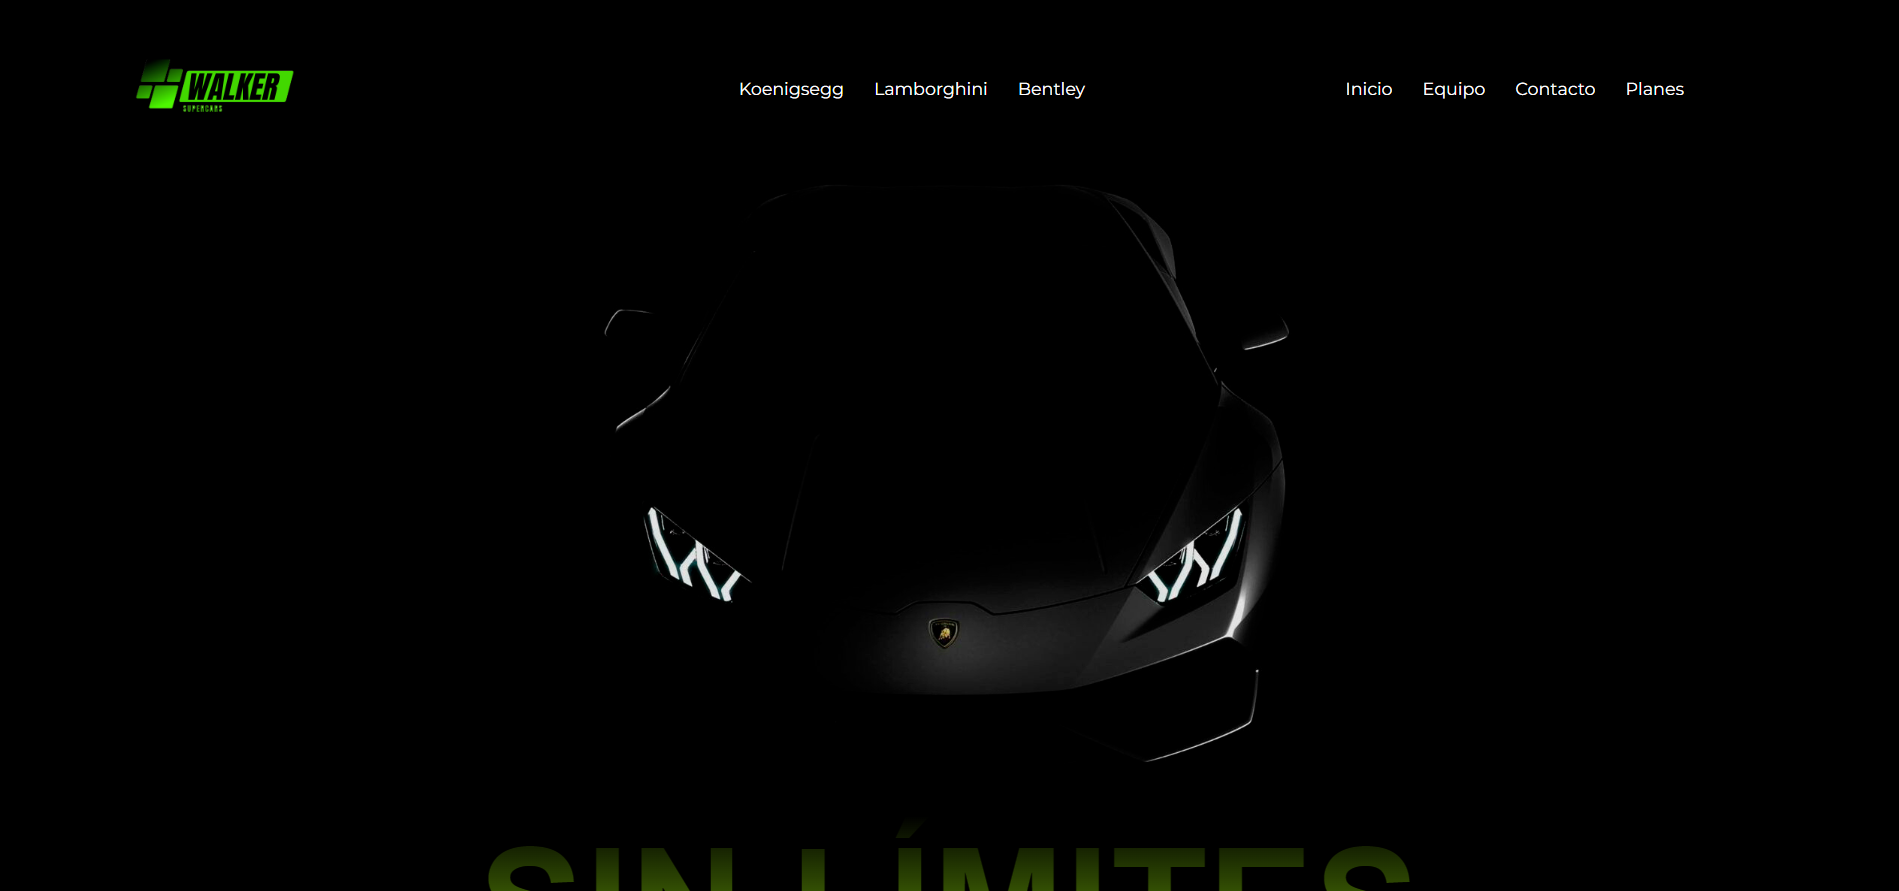
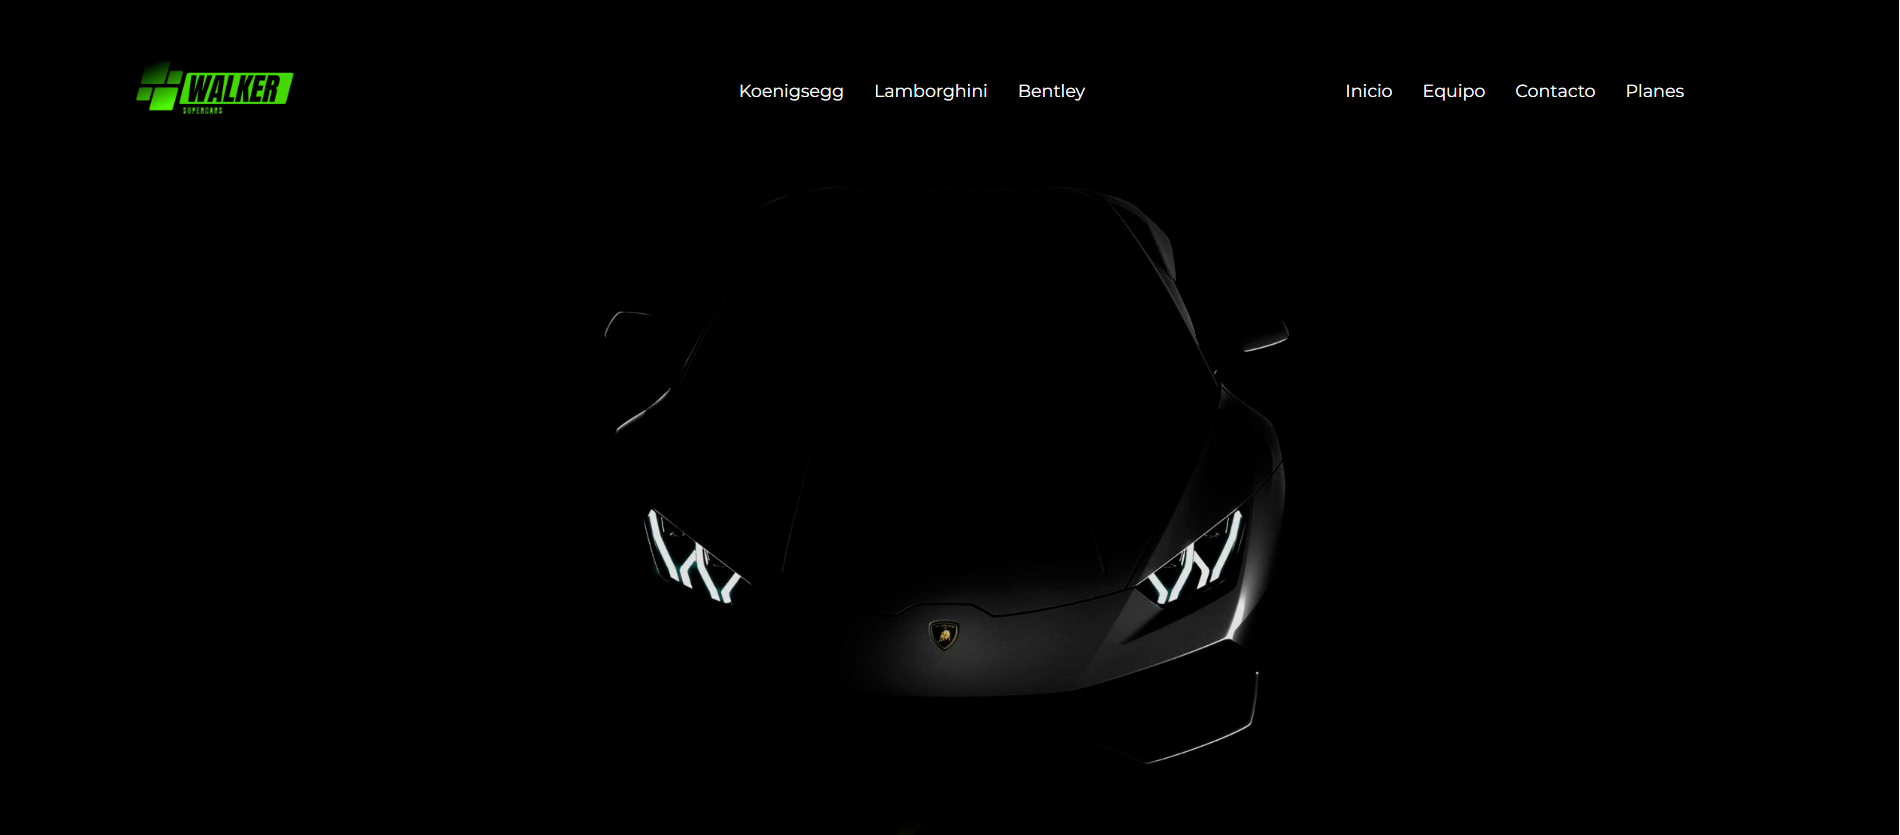
Estructura de página de Sitios Web

diff --git a/sitiosweb.html b/sitiosweb.html
@@ -13,13 +13,15 @@
     <link rel="stylesheet" href="styles.css">
     <script src="https://kit.fontawesome.com/96a8e79162.js" crossorigin="anonymous"></script>
     <script src="https://code.jquery.com/jquery-3.6.0.min.js"></script>
+    <script src="//ajax.googleapis.com/ajax/libs/jquery/1.10.2/jquery.min.js"></script>
     <link rel="icon" type="image/x-icon" href="./img/favIanValentino1.png">
+    <script src="myscript.js"></script>
     <title>Sitios Web | Ian Valentino</title>
 </head>
 
 <body>
-    <header>
-        <div class="header-container fixed navbar-fixed-top">
+    <header class="nav-down">
+        <div class="nav-down header-container fixed navbar-fixed-top">
             <nav>
                 <div class="header-elements">
                     <ul>
@@ -53,25 +55,26 @@
         <div class="main-container">
             <div class="page-box-1">
                 <div class="left-col">
-                    <img src="img1\1.PNG" height="200px">
+                    <a href="https://delivuconnect.com/">
+                        <img class="web-img" src="img1\1.PNG" height="200px">
+                    </a>
                 </div>
                 <div class="right-col">
                     <h2>Delivuconnect</h2>
-                    <p>
+                    <p class="web-text">
                         Diseñado utilizando CMS WordPress, este proyecto fusiona mis habilidades en diseño web con la
-                        capacidad de desarrollar características avanzadas para directorios en línea. Se trata de
+                        capacidad de desarrollar características para directorios en línea. Se trata de
                         un sitio donde varias empresas pueden mostrar su presencia en línea y posicionarse.
                         El usuario administrador no solo pueden buscar empresas, sino que también puede
                         gestionar anuncios. Esto significa que pueden agregar nuevos anuncios, editar los
                         existentes e incluso eliminarlos.
-
+                        <br><br>
                         Para muchos elementos del sitio web utilicé mi conocimiento en herramientas como Illustrator,
-                        Photoshop y Canva. Esta estética profesional se une a las funciones potentes de
-                        WordPress, creando un directorio completo y amigable. Los visitantes pueden explorar empresas,
+                        Photoshop y Canva. Los visitantes pueden explorar empresas,
                         acceder a información útil y conectarse directamente con los equipos de
                         ventas de Delivuconnect a través de correo electrónico o teléfono, para así solicitar publicar
                         su propio anuncio en el sitio.
-
+                        <br><br>
                         Todo este conjunto se destaca por su diseño exclusivo y funciones personalizadas. Esto convierte
                         a este sitio web en mucho más que una simple herramienta de trabajo; es una experiencia
                         atractiva para los usuarios.
@@ -80,20 +83,22 @@
             </div>
             <div class="page-box-2">
                 <div class="left-col">
-                    <img src="img1\2.PNG" height="200px">
+                    <a href="https://walkercars.netlify.app/">
+                        <img class="web-img" src="img1\2.PNG" height="200px">
+                    </a>
                 </div>
                 <div class="right-col">
                     <h2>Walker - Concesionario</h2>
-                    <p>
+                    <p class="web-text">
                         Diseñado con Html y CSS. Proyecto creado para mi instituto formando parte de mi formación en
                         Desarrollo de Aplicaciones Multiplataforma (MEDAC - FP).
-
+                        <br><br>
                         Se trata de una empresa ficticia, para reflejar estilos y funcionalidades de un concesionario de
                         lujo,
                         en el que podemos ver información sobre los productos en venta, creadores de la empresa, y
                         precio de servicios
                         de la empresa, además de un formulario de contacto.
-
+                        <br><br>
                         Dispone de un Html y CSS semánticamente muy cuidado, código organizado, animaciones, colores,
                         imagenes
                         y logo editado cuidadosamente, haciendo de la experiencia de navegación algo mucho más agradable
@@ -105,7 +110,7 @@
         </div>
     </main>
     <footer>
-
+        
     </footer>
 </body>
 

diff --git a/index.html b/index.html
@@ -97,13 +97,15 @@
                 <div class="cards-container reveal .cards-container-height" id="section2"> <!--Segunda fila-->
                     <article>
                         <div class="flip-card card-position">
-                            <div class="card card4">
-                                <div class="content">
-                                    <h2 class="title">Sitios web</h2>
-                                    <p class="copy">
-                                        Arte web que cumple objetivos.
-                                        Un proyecto completo: apariencia y rendimiento en uno.
-                                    </p>
+                            <div class="card card4">                                
+                                <div class="content">                    
+                                    <a href="sitiosweb.html">
+                                        <h2 class="title">Sitios web</h2>
+                                        <p class="copy">
+                                            Arte web que cumple objetivos.
+                                            Un proyecto completo: apariencia y rendimiento en uno.
+                                        </p>
+                                    </a>
                                 </div>
                             </div>
                         </div>
@@ -123,10 +125,12 @@
                         <div class="flip-card card-position">
                             <div class="card card5">
                                 <div class="content">
-                                    <h2 class="title">Aplicaciones</h2>
-                                    <p class="copy">
-                                        Código impecable, estética y funcionalidad en armonía.
-                                    </p>
+                                    <a href="aplicaciones.html">
+                                        <h2 class="title">Aplicaciones</h2>
+                                        <p class="copy">
+                                            Código impecable, estética y funcionalidad en armonía.
+                                        </p>
+                                    </a>
                                 </div>
                             </div>
                         </div>

diff --git a/myscript.js b/myscript.js
@@ -1,0 +1,39 @@
+// Hide Header on on scroll down
+var didScroll;
+var lastScrollTop = 0;
+var delta = 5;
+var navbarHeight = $('header').outerHeight();
+
+$(window).scroll(function(event){
+    didScroll = true;
+});
+
+setInterval(function() {
+    if (didScroll) {
+        hasScrolled();
+        didScroll = false;
+    }
+}, 250);
+
+function hasScrolled() {
+    var st = $(this).scrollTop();
+    
+    // Make sure they scroll more than delta
+    if(Math.abs(lastScrollTop - st) <= delta)
+        return;
+    
+    // If they scrolled down and are past the navbar, add class .nav-up.
+    // This is necessary so you never see what is "behind" the navbar.
+    if (st > lastScrollTop && st > navbarHeight){
+        // Scroll Down
+        $('header').removeClass('nav-down').addClass('nav-up');
+        $('div').removeClass('nav-down').addClass('nav-up'); 
+    } else {
+        // Scroll Up
+        if(st + $(window).height() < $(document).height()) {
+            $('header').removeClass('nav-up').addClass('nav-down');
+        }
+    }
+    
+    lastScrollTop = st;
+}

diff --git a/styles.css b/styles.css
@@ -40,6 +40,16 @@ ul {
 
 /*----Header----*/
 
+header {
+  position: fixed;
+  top: 0;
+  transition: top 0.2s ease-in-out;
+}
+
+.nav-up {
+  top: -40px;
+}
+
 .header-container {
   padding-top: 1%;
   display: flex;
@@ -407,6 +417,7 @@ ul {
   line-height: 1.35;
   margin-top: 8px;
   margin-bottom: 7px;
+  color: white;
 }
 
 @media (hover: hover) and (min-width: 600px) {
@@ -480,14 +491,33 @@ ul {
   padding-bottom: 35px;
 }
 
+.page-box-2 {
+  display: inline-flex;
+  padding-top: 20px;
+  padding-bottom: 35px;
+}
+
 .left-col {
   padding-left: 95px;
-  padding-right: 35px;
+  padding-right: 10px;
 }
 
 .right-col {
   padding-left: 35px;
   padding-right: 135px;
+}
+
+.web-text {
+  margin: 0px;
+}
+
+.web-img {
+  height: 235px;
+}
+
+h2 {
+  margin: 0px;
+  margin-bottom: 10px;
 }
 
 /*  */
@@ -548,3 +578,4 @@ ul {
 }
 
 /*FIN Footer*/
+

diff --git a/aplicaciones.html b/aplicaciones.html
@@ -1,0 +1,25 @@
+<!DOCTYPE html>
+<html lang="es">
+
+<head>
+    <meta charset="UTF-8">
+    <meta name="viewport" content="width=device-width, initial-scale=1.0">
+    <title>Aplicaciones | Ian Valentino</title>
+    <link rel="stylesheet" href="styles1.css">
+    <script src="myscript.js"></script>
+</head>
+
+<body>
+    <header class="nav-down">
+        This is your menu.
+    </header>
+    <main>
+        This is your body.
+    </main>
+    <footer>
+        This is your footer.
+        <script src="myscript.js"></script>
+    </footer>
+</body>
+
+</html>

diff --git a/styles1.css b/styles1.css
@@ -1,0 +1,26 @@
+body {
+    padding-top: 40px;
+}
+
+header {
+    background: #f5b335;
+    height: 40px;
+    position: fixed;
+    top: 0;
+    transition: top 0.2s ease-in-out;
+    width: 100%;
+}
+
+.nav-up {
+    top: -40px;
+}
+
+main {
+   background:url(
[1 lines of base64/hex data omitted]
+   ) repeat;
+    height: 2000px;
+}
+
+footer { background: #ddd;}
+* { color: transparent}
